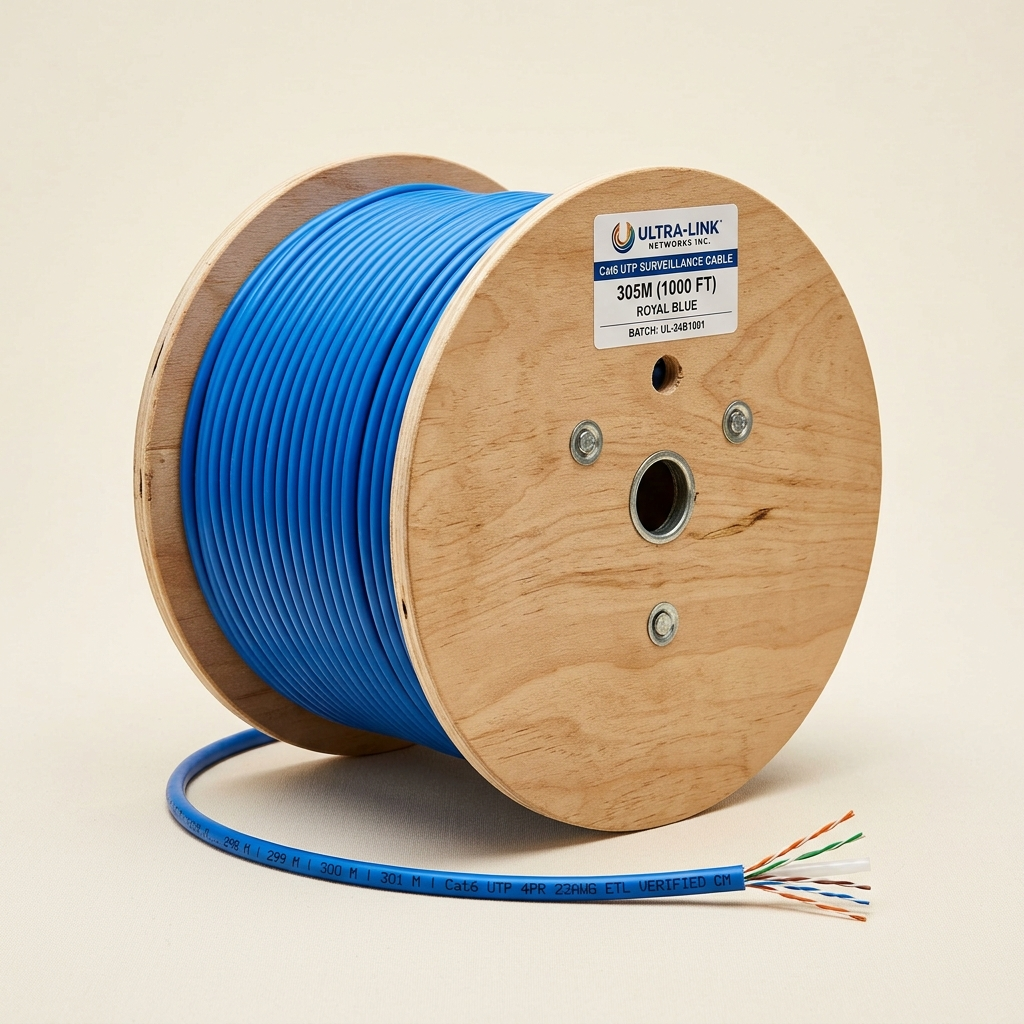
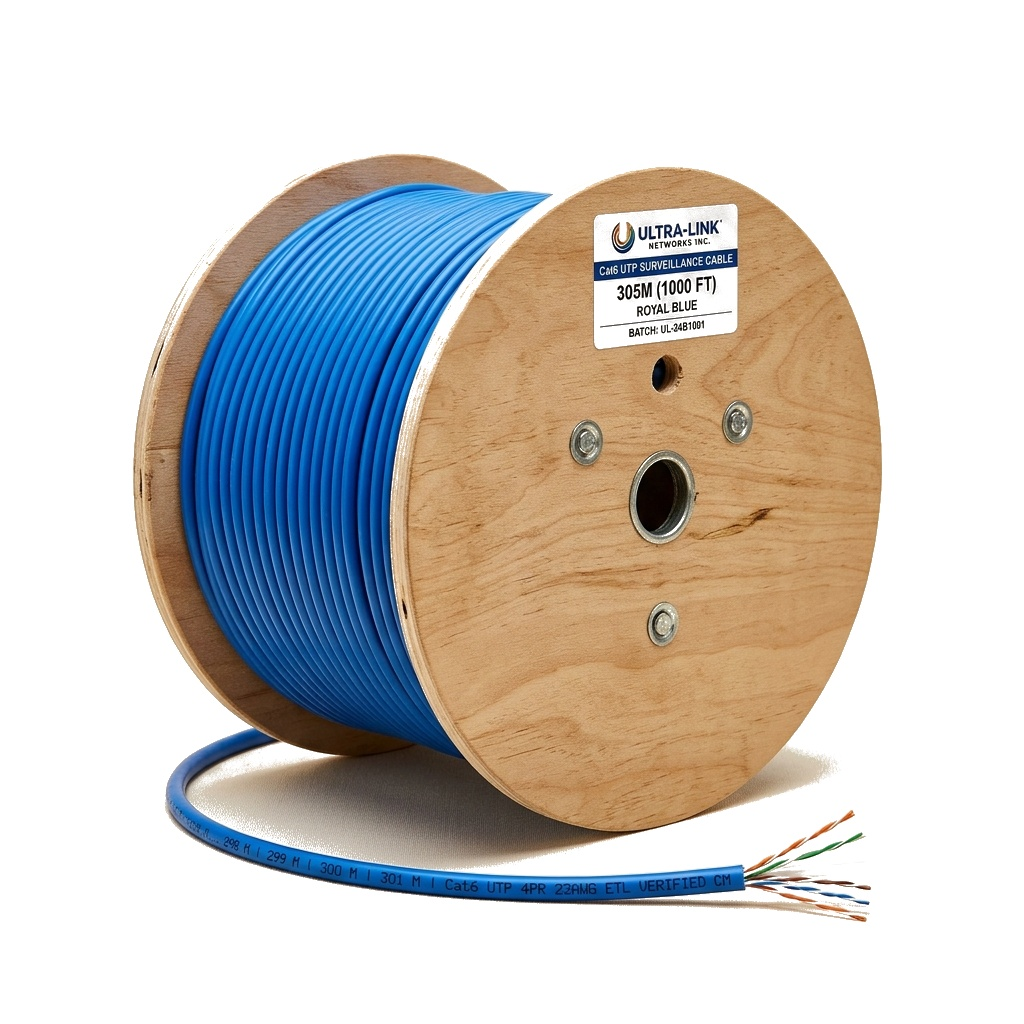
Eliminate clutter to deliver completely uncrowded catalog with pure white image cutouts

diff --git a/index.html b/index.html
@@ -6,7 +6,7 @@
     <meta name="color-scheme" content="only light">
     <meta name="supported-color-schemes" content="light">
     <title>SYBER SPACE — Precision Surveillance Systems</title>
-    <link rel="stylesheet" href="style.css?v=5.4">
+    <link rel="stylesheet" href="style.css?v=5.5">
     <link rel="preconnect" href="https://fonts.googleapis.com">
     <link rel="preconnect" href="https://fonts.gstatic.com" crossorigin>
     <link href="https://fonts.googleapis.com/css2?family=Inter:wght@400;500;600;700;800&family=Plus+Jakarta+Sans:wght@500;600;700;800&display=swap" rel="stylesheet">
@@ -500,7 +500,7 @@
                                 </div>
                                 <div class="m-brand-bestseller-box">
                                     <span class="m-bestseller-ribbon">#1 BESTSELLER</span>
-                                    <img src="assets/trueview_t18291sf_1.webp?v=3.5" alt="Trueview 4G Mini PT Bestseller" class="m-bestseller-img" loading="eager" onerror="if(!this.dataset.retried){this.dataset.retried='1';this.src='assets/trueview_t18291sf_1.webp?retry='+Date.now();}">
+                                    <img src="assets/trueview_t18291sf_1.webp?v=3.6" alt="Trueview 4G Mini PT Bestseller" class="m-bestseller-img" loading="eager" onerror="if(!this.dataset.retried){this.dataset.retried='1';this.src='assets/trueview_t18291sf_1.webp?retry='+Date.now();}">
                                     <span class="m-bestseller-name">Trueview 4G Mini PT</span>
                                 </div>
                             </div>
@@ -512,7 +512,7 @@
                                     <div class="m-shelf-card">
                                         <div class="m-card-badge">4G SOLAR</div>
                                         <div class="m-card-img-wrap">
-                                            <img src="assets/trueview_t18291sf_1.webp?v=3.5" alt="Trueview T18291SF 4G Mini PT" class="m-card-img" loading="eager" onerror="if(!this.dataset.retried){this.dataset.retried='1';this.src='assets/trueview_t18291sf_1.webp?retry='+Date.now();}">
+                                            <img src="assets/trueview_t18291sf_1.webp?v=3.6" alt="Trueview T18291SF 4G Mini PT" class="m-card-img" loading="eager" onerror="if(!this.dataset.retried){this.dataset.retried='1';this.src='assets/trueview_t18291sf_1.webp?retry='+Date.now();}">
                                         </div>
                                         <div class="m-card-name">Trueview 4G Mini PT 3MP IP65</div>
                                         <div class="m-card-price">₹3,200</div>
@@ -526,7 +526,7 @@
                                     <div class="m-shelf-card">
                                         <div class="m-card-badge">8-PORT POE</div>
                                         <div class="m-card-img-wrap">
-                                            <img src="assets/trueview_poe_front.jpg?v=3.5" alt="Trueview 8-Port PoE Switch" class="m-card-img" loading="eager" onerror="if(!this.dataset.retried){this.dataset.retried='1';this.src='assets/trueview_poe_front.jpg?retry='+Date.now();}">
+                                            <img src="assets/trueview_poe_front.jpg?v=3.6" alt="Trueview 8-Port PoE Switch" class="m-card-img" loading="eager" onerror="if(!this.dataset.retried){this.dataset.retried='1';this.src='assets/trueview_poe_front.jpg?retry='+Date.now();}">
                                         </div>
                                         <div class="m-card-name">Trueview 8-Port Commercial PoE</div>
                                         <div class="m-card-price">₹2,350</div>
@@ -540,7 +540,7 @@
                                     <div class="m-shelf-card">
                                         <div class="m-card-badge">4G ROUTER</div>
                                         <div class="m-card-img-wrap">
-                                            <img src="assets/trueview_router_angle.jpg?v=3.5" alt="Trueview 4G SIM Router" class="m-card-img" loading="eager" onerror="if(!this.dataset.retried){this.dataset.retried='1';this.src='assets/trueview_router_angle.jpg?retry='+Date.now();}">
+                                            <img src="assets/trueview_router_angle.jpg?v=3.6" alt="Trueview 4G SIM Router" class="m-card-img" loading="eager" onerror="if(!this.dataset.retried){this.dataset.retried='1';this.src='assets/trueview_router_angle.jpg?retry='+Date.now();}">
                                         </div>
                                         <div class="m-card-name">Trueview 4G LTE SIM Router</div>
                                         <div class="m-card-price">₹1,900</div>
@@ -554,7 +554,7 @@
                                     <div class="m-shelf-card">
                                         <div class="m-card-badge">WI-FI PTZ</div>
                                         <div class="m-card-img-wrap">
-                                            <img src="assets/trueview_t18296s_1.webp?v=3.5" alt="Trueview T18296S Smart Wi-Fi Robot" class="m-card-img" loading="eager" onerror="if(!this.dataset.retried){this.dataset.retried='1';this.src='assets/trueview_t18296s_1.webp?retry='+Date.now();}">
+                                            <img src="assets/trueview_t18296s_1.webp?v=3.6" alt="Trueview T18296S Smart Wi-Fi Robot" class="m-card-img" loading="eager" onerror="if(!this.dataset.retried){this.dataset.retried='1';this.src='assets/trueview_t18296s_1.webp?retry='+Date.now();}">
                                         </div>
                                         <div class="m-card-name">Trueview T18296S 3MP Robot PT</div>
                                         <div class="m-card-price">₹1,725</div>
@@ -568,7 +568,7 @@
                                     <div class="m-shelf-card">
                                         <div class="m-card-badge">4K NVR</div>
                                         <div class="m-card-img-wrap">
-                                            <img src="assets/trueview_t38118ae.webp?v=3.5" alt="Trueview 16CH 4K NVR" class="m-card-img" loading="eager" onerror="if(!this.dataset.retried){this.dataset.retried='1';this.src='assets/trueview_t38118ae.webp?retry='+Date.now();}">
+                                            <img src="assets/trueview_t38118ae.webp?v=3.6" alt="Trueview 16CH 4K NVR" class="m-card-img" loading="eager" onerror="if(!this.dataset.retried){this.dataset.retried='1';this.src='assets/trueview_t38118ae.webp?retry='+Date.now();}">
                                         </div>
                                         <div class="m-card-name">Trueview 16CH 4K Ultra NVR</div>
                                         <div class="m-card-price">₹4,850</div>
@@ -600,7 +600,7 @@
                                 </div>
                                 <div class="m-brand-bestseller-box">
                                     <span class="m-bestseller-ribbon">#1 BESTSELLER</span>
-                                    <img src="assets/cp_e28q_1.jpg?v=3.5" alt="CP PLUS Ezykam Bestseller" class="m-bestseller-img" loading="eager" onerror="if(!this.dataset.retried){this.dataset.retried='1';this.src='assets/cp_e28q_1.jpg?retry='+Date.now();}">
+                                    <img src="assets/cp_e28q_1.jpg?v=3.6" alt="CP PLUS Ezykam Bestseller" class="m-bestseller-img" loading="eager" onerror="if(!this.dataset.retried){this.dataset.retried='1';this.src='assets/cp_e28q_1.jpg?retry='+Date.now();}">
                                     <span class="m-bestseller-name">CP Plus Ezykam 2MP</span>
                                 </div>
                             </div>
@@ -612,7 +612,7 @@
                                     <div class="m-shelf-card">
                                         <div class="m-card-badge">POPULAR</div>
                                         <div class="m-card-img-wrap">
-                                            <img src="assets/cp_e28q_1.jpg?v=3.5" alt="CP PLUS Ezykam CP-E28Q 2MP" class="m-card-img" loading="eager" onerror="if(!this.dataset.retried){this.dataset.retried='1';this.src='assets/cp_e28q_1.jpg?retry='+Date.now();}">
+                                            <img src="assets/cp_e28q_1.jpg?v=3.6" alt="CP PLUS Ezykam CP-E28Q 2MP" class="m-card-img" loading="eager" onerror="if(!this.dataset.retried){this.dataset.retried='1';this.src='assets/cp_e28q_1.jpg?retry='+Date.now();}">
                                         </div>
                                         <div class="m-card-name">CP PLUS Ezykam 2MP Pan-Tilt</div>
                                         <div class="m-card-price">₹1,980</div>
@@ -626,7 +626,7 @@
                                     <div class="m-shelf-card">
                                         <div class="m-card-badge">3MP 2K</div>
                                         <div class="m-card-img-wrap">
-                                            <img src="assets/cp_e38q_1.jpg?v=3.5" alt="CP PLUS Ezykam CP-E38Q 3MP" class="m-card-img" loading="eager" onerror="if(!this.dataset.retried){this.dataset.retried='1';this.src='assets/cp_e38q_1.jpg?retry='+Date.now();}">
+                                            <img src="assets/cp_e38q_1.jpg?v=3.6" alt="CP PLUS Ezykam CP-E38Q 3MP" class="m-card-img" loading="eager" onerror="if(!this.dataset.retried){this.dataset.retried='1';this.src='assets/cp_e38q_1.jpg?retry='+Date.now();}">
                                         </div>
                                         <div class="m-card-name">CP PLUS Ezykam 3MP 2K PT</div>
                                         <div class="m-card-price">₹2,235</div>
@@ -640,7 +640,7 @@
                                     <div class="m-shelf-card">
                                         <div class="m-card-badge">COLOR NIGHT</div>
                                         <div class="m-card-img-wrap">
-                                            <img src="assets/ez_p34q_1.png?v=3.5" alt="CP PLUS EzyLiv Full Color" class="m-card-img" loading="eager" onerror="if(!this.dataset.retried){this.dataset.retried='1';this.src='assets/ez_p34q_1.png?retry='+Date.now();}">
+                                            <img src="assets/ez_p34q_1.png?v=3.6" alt="CP PLUS EzyLiv Full Color" class="m-card-img" loading="eager" onerror="if(!this.dataset.retried){this.dataset.retried='1';this.src='assets/ez_p34q_1.png?retry='+Date.now();}">
                                         </div>
                                         <div class="m-card-name">CP PLUS EzyLiv 3MP Full Color</div>
                                         <div class="m-card-price">₹2,070</div>
@@ -654,7 +654,7 @@
                                     <div class="m-shelf-card">
                                         <div class="m-card-badge">4G CELLULAR</div>
                                         <div class="m-card-img-wrap">
-                                            <img src="assets/cp_z43q_1.jpg?v=3.5" alt="CP PLUS 4G Bullet" class="m-card-img" loading="eager" onerror="if(!this.dataset.retried){this.dataset.retried='1';this.src='assets/cp_z43q_1.jpg?retry='+Date.now();}">
+                                            <img src="assets/cp_z43q_1.jpg?v=3.6" alt="CP PLUS 4G Bullet" class="m-card-img" loading="eager" onerror="if(!this.dataset.retried){this.dataset.retried='1';this.src='assets/cp_z43q_1.jpg?retry='+Date.now();}">
                                         </div>
                                         <div class="m-card-name">CP PLUS 4G Outdoor SIM Bullet</div>
                                         <div class="m-card-price">₹3,450</div>
@@ -691,7 +691,7 @@
                                 </div>
                                 <div class="m-brand-bestseller-box">
                                     <span class="m-bestseller-ribbon ribbon-gold">#1 BESTSELLER</span>
-                                    <img src="assets/idada_q2i35s_1.jpg?v=3.5" alt="iDADA 3MP Smart PTZ" class="m-bestseller-img" loading="eager" onerror="if(!this.dataset.retried){this.dataset.retried='1';this.src='assets/idada_q2i35s_1.jpg?retry='+Date.now();}">
+                                    <img src="assets/idada_q2i35s_1.jpg?v=3.6" alt="iDADA 3MP Smart PTZ" class="m-bestseller-img" loading="eager" onerror="if(!this.dataset.retried){this.dataset.retried='1';this.src='assets/idada_q2i35s_1.jpg?retry='+Date.now();}">
                                     <span class="m-bestseller-name">iDADA ID-Q2i35S-TD</span>
                                 </div>
                             </div>
@@ -720,7 +720,7 @@
                                 </div>
                                 <div class="m-brand-bestseller-box">
                                     <span class="m-bestseller-ribbon ribbon-contractor">★ FEATURED</span>
-                                    <img src="assets/cctv_cat6_cable_drum.jpg?v=3.5" alt="Cat6 Pure Copper 305M Reel" class="m-bestseller-img" loading="eager" onerror="if(!this.dataset.retried){this.dataset.retried='1';this.src='assets/cctv_cat6_cable_drum.jpg?retry='+Date.now();}">
+                                    <img src="assets/cctv_cat6_cable_drum.jpg?v=3.6" alt="Cat6 Pure Copper 305M Reel" class="m-bestseller-img" loading="eager" onerror="if(!this.dataset.retried){this.dataset.retried='1';this.src='assets/cctv_cat6_cable_drum.jpg?retry='+Date.now();}">
                                     <span class="m-bestseller-name">Cat6 Pure Copper 305M</span>
                                 </div>
                             </div>
@@ -732,7 +732,7 @@
                                     <div class="m-shelf-card m-card-featured-pick">
                                         <div class="m-card-badge badge-pro">★ FEATURED</div>
                                         <div class="m-card-img-wrap">
-                                            <img src="assets/cctv_cat6_cable_drum.jpg?v=3.5" alt="Cat6 Pure Copper 305M" class="m-card-img" loading="eager" onerror="if(!this.dataset.retried){this.dataset.retried='1';this.src='assets/cctv_cat6_cable_drum.jpg?retry='+Date.now();}">
+                                            <img src="assets/cctv_cat6_cable_drum.jpg?v=3.6" alt="Cat6 Pure Copper 305M" class="m-card-img" loading="eager" onerror="if(!this.dataset.retried){this.dataset.retried='1';this.src='assets/cctv_cat6_cable_drum.jpg?retry='+Date.now();}">
                                         </div>
                                         <div class="m-card-name">Cat6 Pure Copper 305M Cable Reel</div>
                                         <div class="m-card-price">₹4,800</div>
@@ -746,7 +746,7 @@
                                     <div class="m-shelf-card">
                                         <div class="m-card-badge">POWER UNIT</div>
                                         <div class="m-card-img-wrap">
-                                            <img src="assets/cctv_smps_power_supply.jpg?v=3.5" alt="12V 10A CCTV SMPS" class="m-card-img" loading="eager" onerror="if(!this.dataset.retried){this.dataset.retried='1';this.src='assets/cctv_smps_power_supply.jpg?retry='+Date.now();}">
+                                            <img src="assets/cctv_smps_power_supply.jpg?v=3.6" alt="12V 10A CCTV SMPS" class="m-card-img" loading="eager" onerror="if(!this.dataset.retried){this.dataset.retried='1';this.src='assets/cctv_smps_power_supply.jpg?retry='+Date.now();}">
                                         </div>
                                         <div class="m-card-name">12V 10A Central SMPS Power Supply</div>
                                         <div class="m-card-price">₹850</div>
@@ -760,7 +760,7 @@
                                     <div class="m-shelf-card">
                                         <div class="m-card-badge">SURVEILLANCE</div>
                                         <div class="m-card-img-wrap">
-                                            <img src="assets/cctv_surveillance_hdd.jpg?v=3.5" alt="Surveillance Internal Hard Drive" class="m-card-img" loading="eager" onerror="if(!this.dataset.retried){this.dataset.retried='1';this.src='assets/cctv_surveillance_hdd.jpg?retry='+Date.now();}">
+                                            <img src="assets/cctv_surveillance_hdd.jpg?v=3.6" alt="Surveillance Internal Hard Drive" class="m-card-img" loading="eager" onerror="if(!this.dataset.retried){this.dataset.retried='1';this.src='assets/cctv_surveillance_hdd.jpg?retry='+Date.now();}">
                                         </div>
                                         <div class="m-card-name">3.5-Inch Surveillance Hard Drive</div>
                                         <div class="m-card-price">₹3,400</div>
@@ -774,7 +774,7 @@
                                     <div class="m-shelf-card">
                                         <div class="m-card-badge badge-pro">ESSENTIAL</div>
                                         <div class="m-card-img-wrap">
-                                            <img src="assets/cctv_junction_box.jpg?v=3.5" alt="IP66 Round Camera Junction Box" class="m-card-img" loading="eager" onerror="if(!this.dataset.retried){this.dataset.retried='1';this.src='assets/cctv_junction_box.jpg?retry='+Date.now();}">
+                                            <img src="assets/cctv_junction_box.jpg?v=3.6" alt="IP66 Round Camera Junction Box" class="m-card-img" loading="eager" onerror="if(!this.dataset.retried){this.dataset.retried='1';this.src='assets/cctv_junction_box.jpg?retry='+Date.now();}">
                                         </div>
                                         <div class="m-card-name">IP66 Round CCTV Deep Base Box</div>
                                         <div class="m-card-price">₹180</div>
@@ -885,8 +885,14 @@
                     </div>
 
                     <!-- Dynamic Results Status Bar -->
-                    <div class="ecom-status-bar">
-                        <span class="results-count-text">Showing <strong id="filtered-count-num">41</strong> verified wholesale systems</span>
+                    <div class="ecom-status-bar" id="ecom-status-bar" style="display: none;">
+                        <div class="status-bar-left" style="display: flex; align-items: center; gap: 12px;">
+                            <button type="button" class="btn-back-showrooms" onclick="returnToShowrooms()">
+                                <svg width="14" height="14" viewBox="0 0 24 24" fill="none" stroke="currentColor" stroke-width="2.5" stroke-linecap="round" stroke-linejoin="round"><line x1="19" y1="12" x2="5" y2="12"></line><polyline points="12 19 5 12 12 5"></polyline></svg>
+                                <span>Back to Showrooms</span>
+                            </button>
+                            <span class="results-count-text">Showing <strong id="filtered-count-num">41</strong> systems</span>
+                        </div>
                         <div class="filter-active-tags" id="filter-active-tags"></div>
                     </div>
 
@@ -3780,7 +3786,7 @@
     <!-- GSAP Animation Engine -->
     <script src="https://cdnjs.cloudflare.com/ajax/libs/gsap/3.12.5/gsap.min.js"></script>
     <script src="cookie-location.js?v=3.6"></script>
-    <script src="script.js?v=4.5"></script>
+    <script src="script.js?v=4.6"></script>
 
     <!-- ======================================================================
          AMAZON-STYLE MOBILE BOTTOM NAVIGATION BAR (PHONE SCREEN ONLY)

diff --git a/style.css b/style.css
@@ -6550,12 +6550,18 @@ a {
     }
 
     .ecom-layout {
-        display: flex !important;
-        flex-direction: row !important;
-        align-items: flex-start !important;
-        gap: 40px !important;
+        display: block !important;
+        width: 100% !important;
+        max-width: 1440px !important;
+        margin: 0 auto !important;
         overflow: visible !important;
         position: relative !important;
+    }
+
+    .ecom-main {
+        width: 100% !important;
+        max-width: 100% !important;
+        margin: 0 auto !important;
     }
 
     .mobile-top-search-strip,
@@ -6572,43 +6578,28 @@ a {
         pointer-events: none !important;
     }
 
-    .sidebar-filters {
-        display: block !important;
-        visibility: visible !important;
-        position: -webkit-sticky !important;
-        position: sticky !important;
-        top: 96px !important;
-        align-self: flex-start !important;
-        width: 290px !important;
-        flex-shrink: 0 !important;
-        max-height: calc(100vh - 110px) !important;
-        overflow-y: auto !important;
-        overscroll-behavior: contain !important;
-        z-index: 40 !important;
-    }
-
-    .products-header {
-        display: flex !important;
-        visibility: visible !important;
-    }
-
+    /* Completely hide sidebars & redundant duplicate filters so the store stays spacious & uncrowded */
+    .sidebar-filters,
+    .products-header,
     #text-filter-suite,
     .text-filter-suite {
-        display: flex !important;
-        visibility: visible !important;
+        display: none !important;
+        visibility: hidden !important;
+        height: 0 !important;
+        margin: 0 !important;
+        padding: 0 !important;
+        overflow: hidden !important;
     }
 
+    /* Results Status Bar only when actively filtering */
     .ecom-status-bar {
-        display: flex !important;
-        visibility: visible !important;
+        display: none;
     }
 
     .ecom-grid,
     #products-grid {
-        display: grid !important;
         grid-template-columns: repeat(3, 1fr) !important;
-        gap: 24px !important;
-        visibility: visible !important;
+        gap: 20px !important;
     }
 
     .header-nav,
@@ -7688,4 +7679,34 @@ a {
     background: #000000;
     box-shadow: 0 6px 20px rgba(15, 23, 42, 0.22);
     transform: translateY(-2px);
+}
+
+@media (min-width: 1200px) {
+    .ecom-grid,
+    #products-grid {
+        grid-template-columns: repeat(4, 1fr) !important;
+        gap: 22px !important;
+    }
+}
+
+.btn-back-showrooms {
+    display: inline-flex;
+    align-items: center;
+    gap: 8px;
+    background: #f1f5f9;
+    border: 1.5px solid rgba(15, 23, 42, 0.12);
+    color: #0f172a;
+    padding: 7px 16px;
+    border-radius: 9999px;
+    font-family: var(--font-display);
+    font-size: 0.8rem;
+    font-weight: 700;
+    cursor: pointer;
+    transition: all 0.2s ease;
+}
+
+.btn-back-showrooms:hover {
+    background: #0f172a;
+    color: #ffffff;
+    border-color: #0f172a;
 }

diff --git a/script.js b/script.js
@@ -2586,3 +2586,23 @@ function initGsapMagic() {
         }, 0.12);
     }
 }
+window.returnToShowrooms = function() {
+    window.forceFullCatalogGrid = false;
+    const headerInput = document.getElementById('header-search-input');
+    if (headerInput) headerInput.value = '';
+    const cameraInput = document.getElementById('camera-search-input');
+    if (cameraInput) cameraInput.value = '';
+    const mobileInput = document.getElementById('mobile-search-input');
+    if (mobileInput) mobileInput.value = '';
+    
+    document.querySelectorAll('.cat-nav-link').forEach(l => l.classList.remove('active'));
+    const allLink = document.querySelector('.cat-nav-link');
+    if (allLink) allLink.classList.add('active');
+    
+    selectTextCategory('all', null);
+    
+    const camerasEl = document.getElementById('cameras');
+    if (camerasEl) {
+        camerasEl.scrollIntoView({ behavior: 'smooth' });
+    }
+};

diff --git a/product.html b/product.html
@@ -8,7 +8,7 @@
     <link rel="preconnect" href="https://fonts.googleapis.com">
     <link rel="preconnect" href="https://fonts.gstatic.com" crossorigin>
     <link href="https://fonts.googleapis.com/css2?family=Inter:wght@300;400;500;600;700;800&family=Plus+Jakarta+Sans:wght@500;600;700;800&display=swap" rel="stylesheet">
-    <link rel="stylesheet" href="style.css?v=5.4">
+    <link rel="stylesheet" href="style.css?v=5.5">
     <style>
         /* ======================================================================
            WHOLE-WINDOW PRODUCT PAGE: NO BOXES — PURE JESKO JETS EDITORIAL FLOW

diff --git a/cart.html b/cart.html
@@ -8,7 +8,7 @@
     <link rel="preconnect" href="https://fonts.googleapis.com">
     <link rel="preconnect" href="https://fonts.gstatic.com" crossorigin>
     <link href="https://fonts.googleapis.com/css2?family=Inter:wght@300;400;500;600;700;800&family=Plus+Jakarta+Sans:wght@500;600;700;800&display=swap" rel="stylesheet">
-    <link rel="stylesheet" href="style.css?v=5.4">
+    <link rel="stylesheet" href="style.css?v=5.5">
 </head>
 <body>
 

diff --git a/contact.html b/contact.html
@@ -8,7 +8,7 @@
     <link rel="preconnect" href="https://fonts.googleapis.com">
     <link rel="preconnect" href="https://fonts.gstatic.com" crossorigin>
     <link href="https://fonts.googleapis.com/css2?family=Inter:wght@300;400;500;600;700;800&family=Plus+Jakarta+Sans:wght@500;600;700;800&display=swap" rel="stylesheet">
-    <link rel="stylesheet" href="style.css?v=5.4">
+    <link rel="stylesheet" href="style.css?v=5.5">
 </head>
 <body>
 

diff --git a/privacy.html b/privacy.html
@@ -8,7 +8,7 @@
     <link rel="preconnect" href="https://fonts.googleapis.com">
     <link rel="preconnect" href="https://fonts.gstatic.com" crossorigin>
     <link href="https://fonts.googleapis.com/css2?family=Inter:wght@300;400;500;600;700;800&family=Plus+Jakarta+Sans:wght@500;600;700;800&display=swap" rel="stylesheet">
-    <link rel="stylesheet" href="style.css?v=5.4">
+    <link rel="stylesheet" href="style.css?v=5.5">
 </head>
 <body>
 

diff --git a/refund-policy.html b/refund-policy.html
@@ -8,7 +8,7 @@
     <link rel="preconnect" href="https://fonts.googleapis.com">
     <link rel="preconnect" href="https://fonts.gstatic.com" crossorigin>
     <link href="https://fonts.googleapis.com/css2?family=Inter:wght@300;400;500;600;700;800&family=Plus+Jakarta+Sans:wght@500;600;700;800&display=swap" rel="stylesheet">
-    <link rel="stylesheet" href="style.css?v=5.4">
+    <link rel="stylesheet" href="style.css?v=5.5">
 </head>
 <body>
 

diff --git a/shipping-policy.html b/shipping-policy.html
@@ -8,7 +8,7 @@
     <link rel="preconnect" href="https://fonts.googleapis.com">
     <link rel="preconnect" href="https://fonts.gstatic.com" crossorigin>
     <link href="https://fonts.googleapis.com/css2?family=Inter:wght@300;400;500;600;700;800&family=Plus+Jakarta+Sans:wght@500;600;700;800&display=swap" rel="stylesheet">
-    <link rel="stylesheet" href="style.css?v=5.4">
+    <link rel="stylesheet" href="style.css?v=5.5">
 </head>
 <body>
 

diff --git a/terms.html b/terms.html
@@ -8,7 +8,7 @@
     <link rel="preconnect" href="https://fonts.googleapis.com">
     <link rel="preconnect" href="https://fonts.gstatic.com" crossorigin>
     <link href="https://fonts.googleapis.com/css2?family=Inter:wght@300;400;500;600;700;800&family=Plus+Jakarta+Sans:wght@500;600;700;800&display=swap" rel="stylesheet">
-    <link rel="stylesheet" href="style.css?v=5.4">
+    <link rel="stylesheet" href="style.css?v=5.5">
 </head>
 <body>
 
